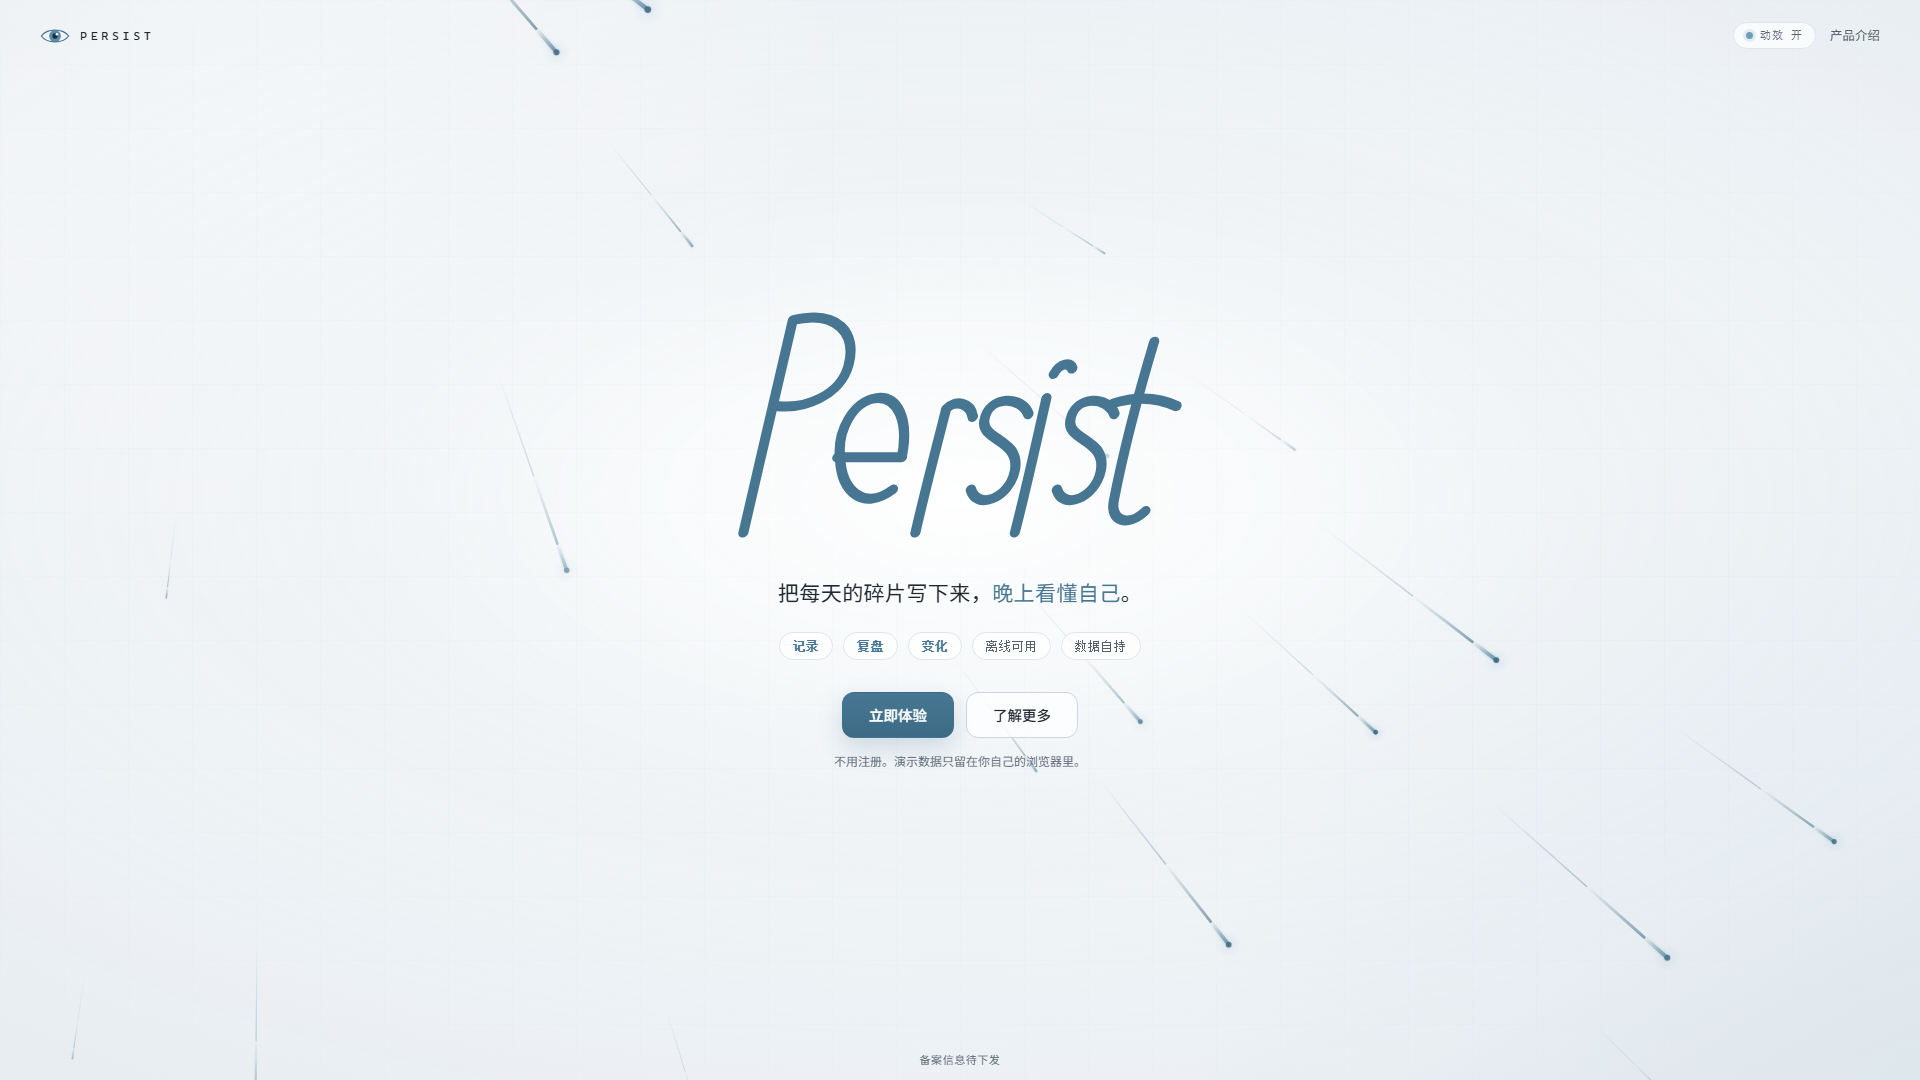
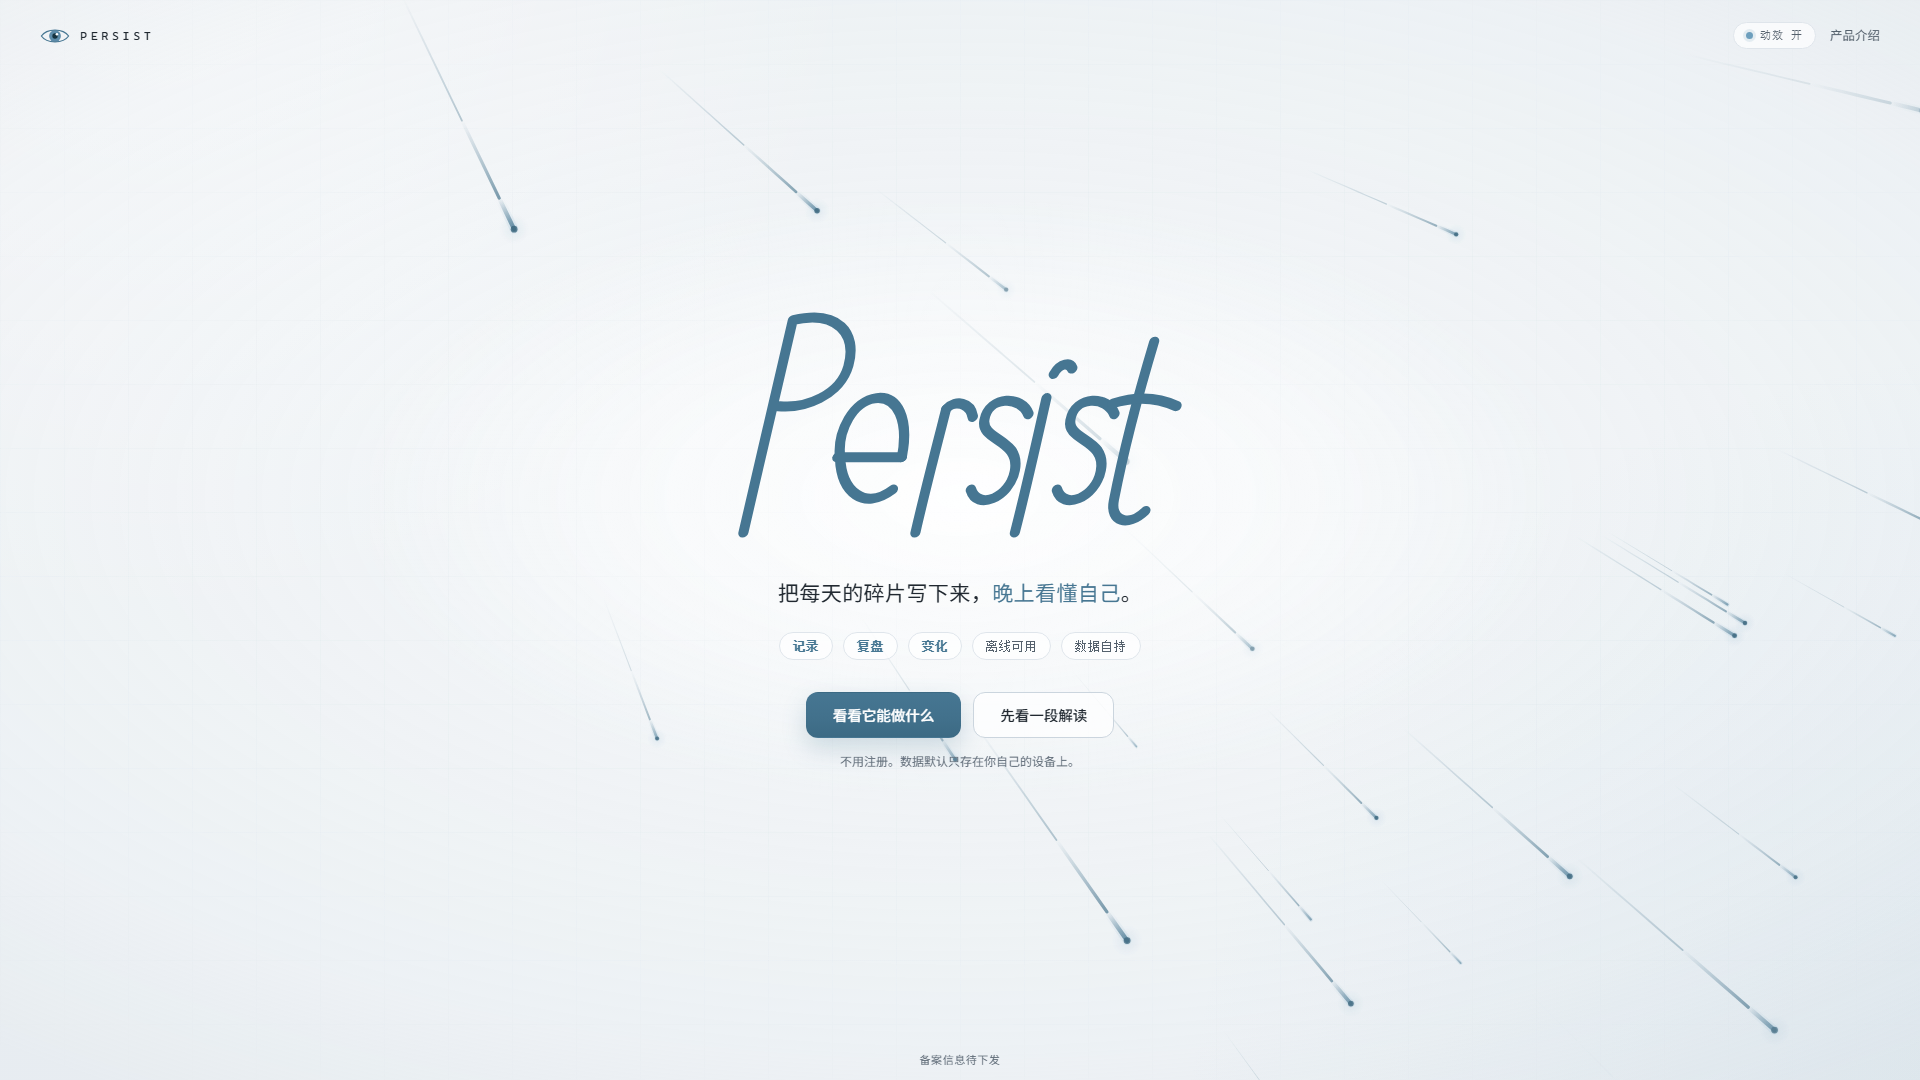
feat(landing): 取消落地页直达产品的入口，产品入口只由介绍首页承接
用户拍板：「落地页不要有直接跳转进产品的入口『立即体验』，
只能在产品介绍首页才能进入产品。」

改动
- 删除「立即体验 → /app/?mode=demo」
- 两个 CTA 都指向 home.html，但落点不同（不是两个一模一样的按钮）：
  主「看看它能做什么」→ home.html
  次「先看一段解读」→ home.html#story（直接落在「一天结束时的 AI 解读」那段）
- note 小字改为「不用注册。数据默认只存在你自己的设备上。」，
  与首页 #trust 段同源（原句提「演示数据」，但落地页已无演示入口，会指错方向）

为什么值得写成硬约束
落地页是第一个看到的产品界面。它若能一步跳进产品，介绍首页就失去了
「先讲清楚再进产品」的意义——而这正是本次重做的初衷。顺手加个「立即体验」
是最容易被无声破坏的地方：不报错、不崩，只让叙事顺序悄悄倒过来。

已落成断言（scripts/check-landing.mjs §0，最先跑）
- 静态扫全部 href/src，出现任何 /app/ 直接判失败
- CTA 链接必须全部以 home.html 开头

同步文档
- landing/README.md：§2 增补「入口边界」小节 + 路由图标 home.html 为唯一产品入口
- docs/网站设计层重做方案-2026-11-19.md：增第五轮更新说明
- docs/网站设计层交接-2026-11-19.md：顶部增入口边界警示

验收：check-landing（新增 §0 入口边界 2 项，其余全绿）、check-home（81 项回归）、
check-og-meta、render-site-info --check 全绿；真实浏览器验证完整漏斗
落地页(无产品链接) → home.html → /app/?mode=demo 渲染正常，零控制台报错。
体积 57 411 B / gzip 20 261 B。

diff --git a/landing/index.html b/landing/index.html
@@ -570,11 +570,16 @@ html.no-js .wordmark .wm-path{stroke-dasharray:none;stroke-dashoffset:0}
       <li>数据自持</li>
     </ul>
 
+    <!-- 入口只有一个：产品介绍首页。
+         落地页是炫技展示页，不做产品入口 —— 想进产品必须先经过 home.html，
+         由它统一承接「看演示 / 自己试试」两个动作。
+         次按钮落到首页的「一段解读」段：那是产品最打动人的地方，
+         比再给一个泛泛的「了解更多」更值得点。 -->
     <div class="cta" id="cta">
-      <a class="btn btn-primary" href="/app/?mode=demo">立即体验</a>
-      <a class="btn btn-ghost" href="home.html">了解更多</a>
+      <a class="btn btn-primary" href="home.html">看看它能做什么</a>
+      <a class="btn btn-ghost" href="home.html#story">先看一段解读</a>
     </div>
-    <p class="note">不用注册。演示数据只留在你自己的浏览器里。</p>
+    <p class="note">不用注册。数据默认只存在你自己的设备上。</p>
   </main>
 </div>
 

diff --git a/landing/README.md b/landing/README.md
@@ -16,7 +16,7 @@
 ```
 域名 / IP
   └─ /                 index.html   落地页（开场：眼睛→星空→落地页；主体：流星雨 + 手写标题 + 眼睛标记）
-       └─ home.html                 产品介绍首页（12 段，面向普通用户）
+       └─ home.html                 产品介绍首页（12 段，面向普通用户）—— **唯一的产品入口**
             ├─ 查看演示 → /app/?mode=demo   完整预置数据 + 部署前固化 AI 内容
             └─ 自己体验 → /app/?mode=guest  空白数据 + 全部 AI Mock
 产品内返回 → /app/ 的“返回首页 / 首页”回到 home.html
@@ -39,6 +39,29 @@
 **定位变了**：这一页不再是「3 秒看懂产品价值」的说明页，而是**炫技展示页**——
 只留项目名、一句 slogan、几个关键词，**详细内容全部留给 `home.html`**。
 产品介绍页负责说清楚「这是什么」，这一页负责「让人愿意看下去」。
+
+**入口边界（2026-11-20 用户拍板）**：**落地页不得有任何直达产品的入口**。
+原先的「立即体验 → `/app/?mode=demo`」已删除，落地页现在只把用户送到
+`home.html`，由介绍首页统一承接「看演示 / 自己试试」两个动作。
+
+> 为什么这条要写成硬约束而不是「先这么着」：落地页是**第一个**看到的产品界面，
+> 如果它能一步跳进产品，介绍首页就失去了「先讲清楚再进产品」的意义 ——
+> 而这正是重做的初衷。顺手加个「立即体验」是最容易被无声破坏的地方：
+> 它不会报错、不会崩，只会让叙事顺序悄悄倒过来。
+
+两个 CTA 都指向介绍首页，但落点不同（**不是两个一模一样的按钮**）：
+
+| 按钮 | 文案 | 目标 | 为什么这么定 |
+| --- | --- | --- | --- |
+| 主 | 看看它能做什么 | `home.html` | 首页首屏（收益 → 能力 → 信任 → 转化） |
+| 次 | 先看一段解读 | `home.html#story` | 直接落在「一天结束时的 AI 解读」，产品最打动人的一段 |
+
+- note 小字同步改成「不用注册。数据默认只存在你自己的设备上。」——
+  与首页 `#trust` 段的「默认只存在你自己的设备上」**同源**。
+  原句「演示数据只留在你自己的浏览器里」提到「演示」，但落地页已无演示入口，文案会指错方向。
+- **`scripts/check-landing.mjs` §0 段**把这条约束做成了断言：
+  静态扫全部 `href`/`src`，出现任何 `/app/` 直接判失败；
+  CTA 的链接必须全部以 `home.html` 开头。
 
 **色调与产品对齐**：落地页不再是深色霓虹青，而是直接采用
 `app/src/styles/home-v3.css` 的令牌（`--bg #F4F7F9` / `--deep #467692` / `--green #6D9FBD`），
@@ -333,6 +356,8 @@ background:
 
 - 工具：`app/node_modules` 里的 Playwright（`chromium.launch({ headless: true })`），直接开 `file://`，可 `evaluate`、截图、`emulateMedia`、`javaScriptEnabled:false`。
 - **落地页一条命令**：`node scripts/check-landing.mjs`（加 `--shots` 顺带重拍 `landing/preview/landing-*.png`）。它断言：
+  - **入口边界（§0，最先跑）**：落地页所有 `href`/`src` 里**不得出现任何 `/app/`**；
+    CTA 的链接必须全部以 `home.html` 开头（防「顺手加个立即体验」无声破坏叙事顺序）；
   - 6 视口（1920/1440/1280/768/390/360）无横向滚动、手写标题与 CTA 落在首屏内；
   - 手写标题的 11 条路径**逐条**被画出（`wmDrawn === wmPaths`），不是一下子全出现；
   - 流星雨：数量 > 0、拖尾点数 ≥ 流星数、帧数递增；

diff --git a/docs/网站设计层重做方案-2026-11-19.md b/docs/网站设计层重做方案-2026-11-19.md
@@ -77,6 +77,35 @@
 
 ---
 
+## ⚠ 2026-11-20 更新（第五轮）：落地页取消直达产品的入口
+
+用户指示：「落地页不要有直接跳转进产品的入口『立即体验』，只能在产品介绍首页才能进入产品。」
+
+**已落地**：`landing/index.html` 的「立即体验 → `/app/?mode=demo`」已删除。
+两个 CTA 现在都指向介绍首页，但**落点不同**（不是两个一模一样的按钮）：
+
+| 按钮 | 文案 | 目标 |
+| ---- | ---- | ---- |
+| 主 | 看看它能做什么 | `home.html` |
+| 次 | 先看一段解读 | `home.html#story`（直接落在「一天结束时的 AI 解读」那段） |
+
+note 小字同步改为「不用注册。数据默认只存在你自己的设备上。」，
+与首页 `#trust` 段的「默认只存在你自己的设备上」同源
+（原句提到「演示数据」，但落地页已无演示入口，会指错方向）。
+
+**为什么这条值得写成硬约束**：落地页是**第一个**看到的产品界面。
+它若能一步跳进产品，介绍首页就失去了「先讲清楚再进产品」的意义 ——
+而这正是本次重做的初衷。顺手加个「立即体验」是最容易被无声破坏的地方：
+不报错、不崩，只让叙事顺序悄悄倒过来。
+
+**已落成断言**：`scripts/check-landing.mjs` §0 段静态扫全部 `href`/`src`，
+出现任何 `/app/` 直接判失败；CTA 链接必须全部以 `home.html` 开头。
+
+> 本方案 §3.1.2 那张「主 CTA `先看演示` → `/app/?mode=demo`」的表是
+> **介绍首页**的文案规格，不适用于落地页 —— 落地页已改为科技展示型。
+
+---
+
 ## ⚠ 2026-11-20 更新（第三轮）：落地页前加了一段 eyeTutrial 开场动画
 
 第三轮用户要求：**开场先播上游 eyeTutrial 项目的眼睛效果**，再自然接到落地页；

diff --git a/docs/网站设计层交接-2026-11-19.md b/docs/网站设计层交接-2026-11-19.md
@@ -25,6 +25,13 @@
 > **注意色调变化**：落地页**已从深色霓虹青改为与产品同源的浅色体系**
 > （`app/src/styles/home-v3.css` 的令牌，背景渐变与 app 的 body 逐字一致）。
 > 重做介绍首页时**沿用同一批令牌**，不要另起一套。
+>
+> **注意入口边界（2026-11-20 用户拍板）**：**落地页不得有任何直达产品的入口**。
+> 原「立即体验 → `/app/?mode=demo`」已删除；两个 CTA 现在都指向 `home.html`
+> （主 → 首页，次 → `home.html#story`）。**产品入口只由介绍首页承接**，
+> 落地页的职责是把人送到介绍页，不是把人直接扔进产品。
+> `scripts/check-landing.mjs` §0 段把这条做成了断言（出现任何 `/app/` 直接失败）。
+> 改动落地页时**不要顺手加回「立即体验」**。
 
 ---
 
